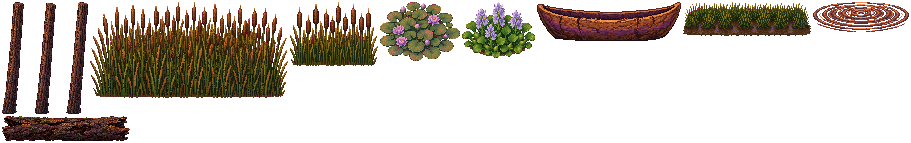
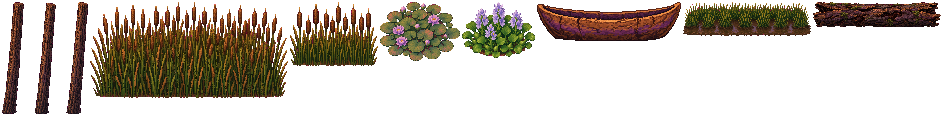
feat: tacurú de l1 con pasto al pie, cueva con cascotes y fuera water_ripples (S49)
Claude-Session: https://claude.ai/code/session_01XsCSjGAaPkeEDdXtfsQzDk

diff --git a/src/assets/propLayout.ts b/src/assets/propLayout.ts
@@ -43,7 +43,8 @@ export function layoutShowcase(
 
 /**
  * Mata de pasto al pie de un árbol (S48, `sheets.<nombre>.tufts` en sprite.json): otro prop ya existente que se
- * coloca solo junto al tronco para tapar lo que el hundido no tapa sin comerse las raíces.
+ * coloca solo junto al tronco para tapar lo que el hundido no tapa sin comerse las raíces. S49: también al pie de
+ * tacurúes y rocas, y en la cueva de l1 son cascotes (`l1_cueva/stone_rubble_pile`), no pasto.
  */
 export interface PropTuft {
   /** "carpeta/nombre" del pasto. */
